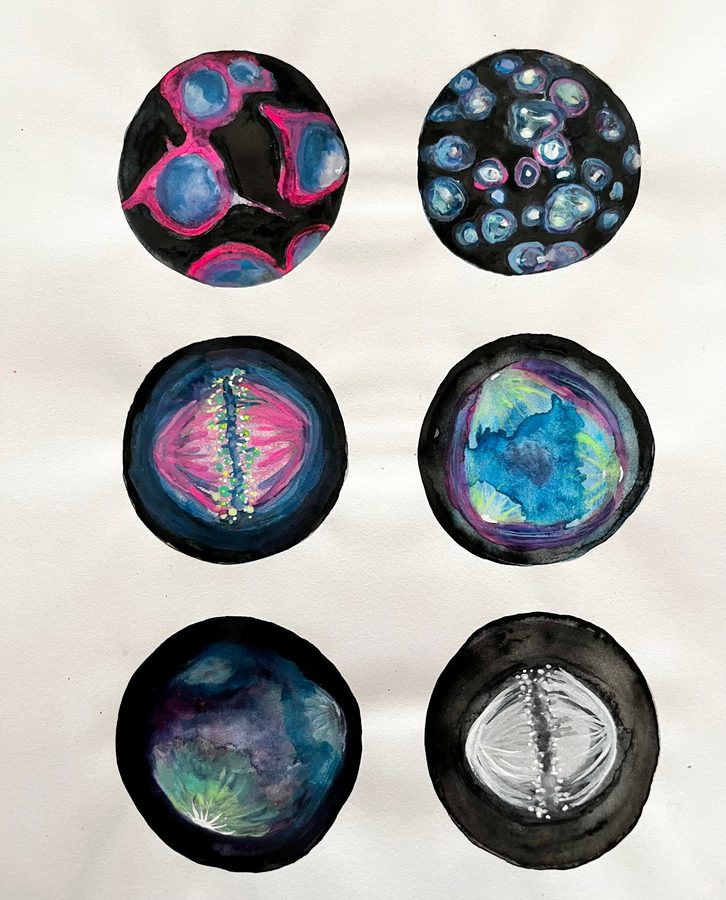
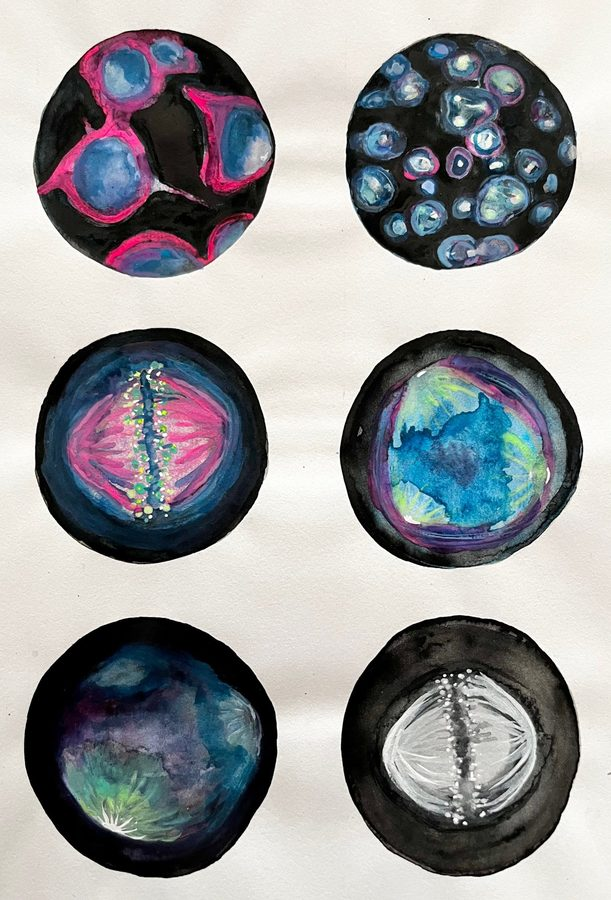
Straighten and crop Pete Boardman paintings 1, 3 and 4
Claude-Session: https://claude.ai/code/session_01UPDjymevHVsg8Usx9JxUAi

diff --git a/index.html b/index.html
@@ -928,10 +928,10 @@ footer { padding-block: 40px; border-top: 1px solid var(--line); color: var(--mu
         <p>Vermont artist Pete Boardman created these paintings based on images from our lab. See more of his work on <a href="https://www.instagram.com/peteboardmanart/">Instagram</a>, on <a href="https://www.foambrewers.com/artists/pete-boardman">his Foam Brewers artist page</a>, or on <a href="https://www.linkedin.com/in/pete-boardman-1205ab57/">LinkedIn</a>.</p>
       </div>
       <div class="art">
-        <figure style="flex: 0.807 1 0"><button type="button" class="art-open" data-full="media/art-boardman-1.jpg" data-caption="Painting by Pete Boardman, based on images from the Stumpff Lab. 2022." aria-label="View painting 1 by Pete Boardman full size"><img src="media/art-boardman-1-thumb.jpg" alt="Six circular paintings of dividing and resting cells in magenta, blue, green, and white on a black ground" width="726" height="900" loading="lazy"></button><figcaption><span class="credit">Pete Boardman, 2022</span></figcaption></figure>
+        <figure style="flex: 0.679 1 0"><button type="button" class="art-open" data-full="media/art-boardman-1.jpg" data-caption="Painting by Pete Boardman, based on images from the Stumpff Lab. 2022." aria-label="View painting 1 by Pete Boardman full size"><img src="media/art-boardman-1-thumb.jpg" alt="Six circular paintings of dividing and resting cells in magenta, blue, green, and white on a black ground" width="611" height="900" loading="lazy"></button><figcaption><span class="credit">Pete Boardman, 2022</span></figcaption></figure>
         <figure style="flex: 0.759 1 0"><button type="button" class="art-open" data-full="media/art-boardman-2.jpg" data-caption="Painting by Pete Boardman, based on images from the Stumpff Lab. 2022." aria-label="View painting 2 by Pete Boardman full size"><img src="media/art-boardman-2-thumb.jpg" alt="Six circular paintings, including a yellow-green spindle with a dark blue band of chromosomes and a white spindle on a starry black ground" width="683" height="900" loading="lazy"></button><figcaption><span class="credit">Pete Boardman, 2022</span></figcaption></figure>
-        <figure style="flex: 0.844 1 0"><button type="button" class="art-open" data-full="media/art-boardman-3.jpg" data-caption="Painting by Pete Boardman, based on images from the Stumpff Lab. 2023." aria-label="View painting 3 by Pete Boardman full size"><img src="media/art-boardman-3-thumb.jpg" alt="Six circular paintings mounted on a white mat, including green and magenta cells, a purple spindle with glowing green poles, and a radiating white aster" width="760" height="900" loading="lazy"></button><figcaption><span class="credit">Pete Boardman, 2023</span></figcaption></figure>
-        <figure style="flex: 0.756 1 0"><button type="button" class="art-open" data-full="media/art-boardman-4.jpg" data-caption="Painting by Pete Boardman, based on images from the Stumpff Lab. 2024." aria-label="View painting 4 by Pete Boardman full size"><img src="media/art-boardman-4-thumb.jpg" alt="Six circular paintings, including a gray chromosome mass, blue nuclei on purple, pink cells, a green-rimmed spindle, and a cluster of blue-green cells" width="680" height="900" loading="lazy"></button><figcaption><span class="credit">Pete Boardman, 2024</span></figcaption></figure>
+        <figure style="flex: 0.688 1 0"><button type="button" class="art-open" data-full="media/art-boardman-3.jpg" data-caption="Painting by Pete Boardman, based on images from the Stumpff Lab. 2023." aria-label="View painting 3 by Pete Boardman full size"><img src="media/art-boardman-3-thumb.jpg" alt="Six circular paintings mounted on a white mat, including green and magenta cells, a purple spindle with glowing green poles, and a radiating white aster" width="619" height="900" loading="lazy"></button><figcaption><span class="credit">Pete Boardman, 2023</span></figcaption></figure>
+        <figure style="flex: 0.672 1 0"><button type="button" class="art-open" data-full="media/art-boardman-4.jpg" data-caption="Painting by Pete Boardman, based on images from the Stumpff Lab. 2024." aria-label="View painting 4 by Pete Boardman full size"><img src="media/art-boardman-4-thumb.jpg" alt="Six circular paintings, including a gray chromosome mass, blue nuclei on purple, pink cells, a green-rimmed spindle, and a cluster of blue-green cells" width="605" height="900" loading="lazy"></button><figcaption><span class="credit">Pete Boardman, 2024</span></figcaption></figure>
       </div>
       </div>
     </div>
